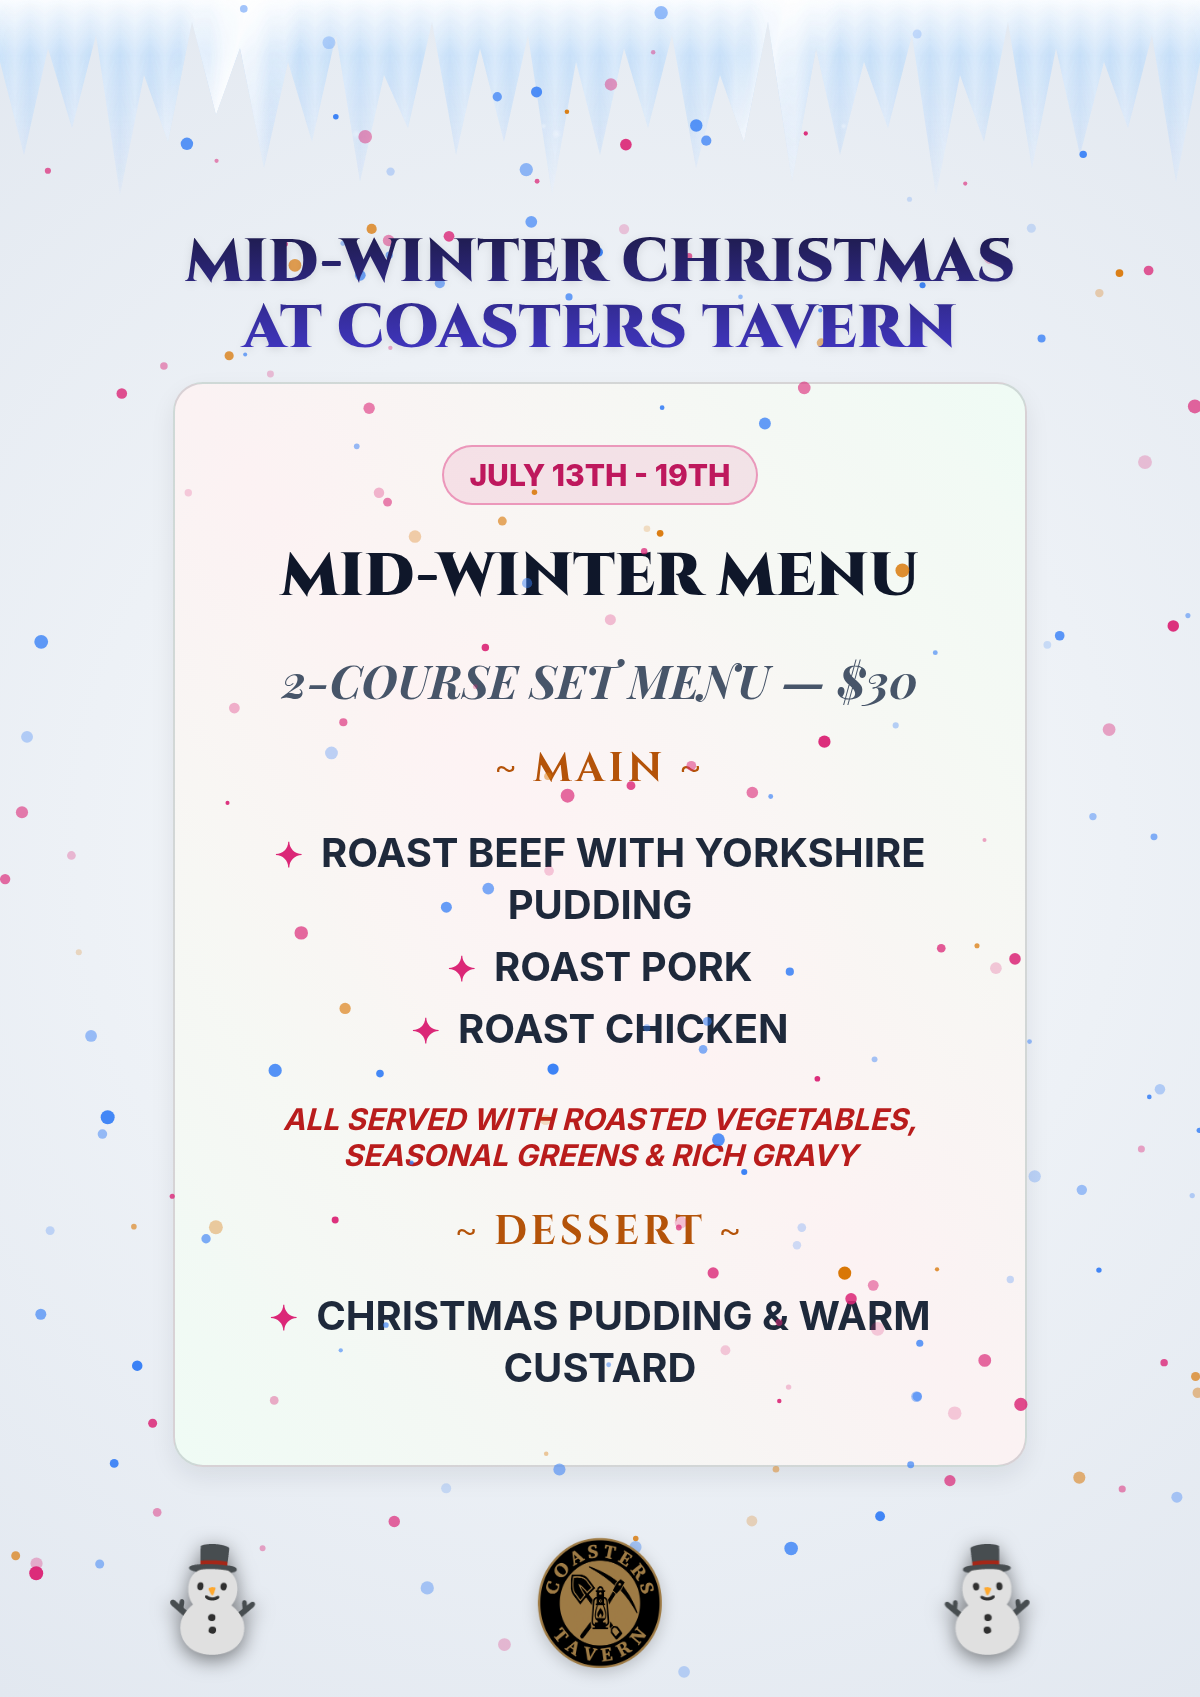
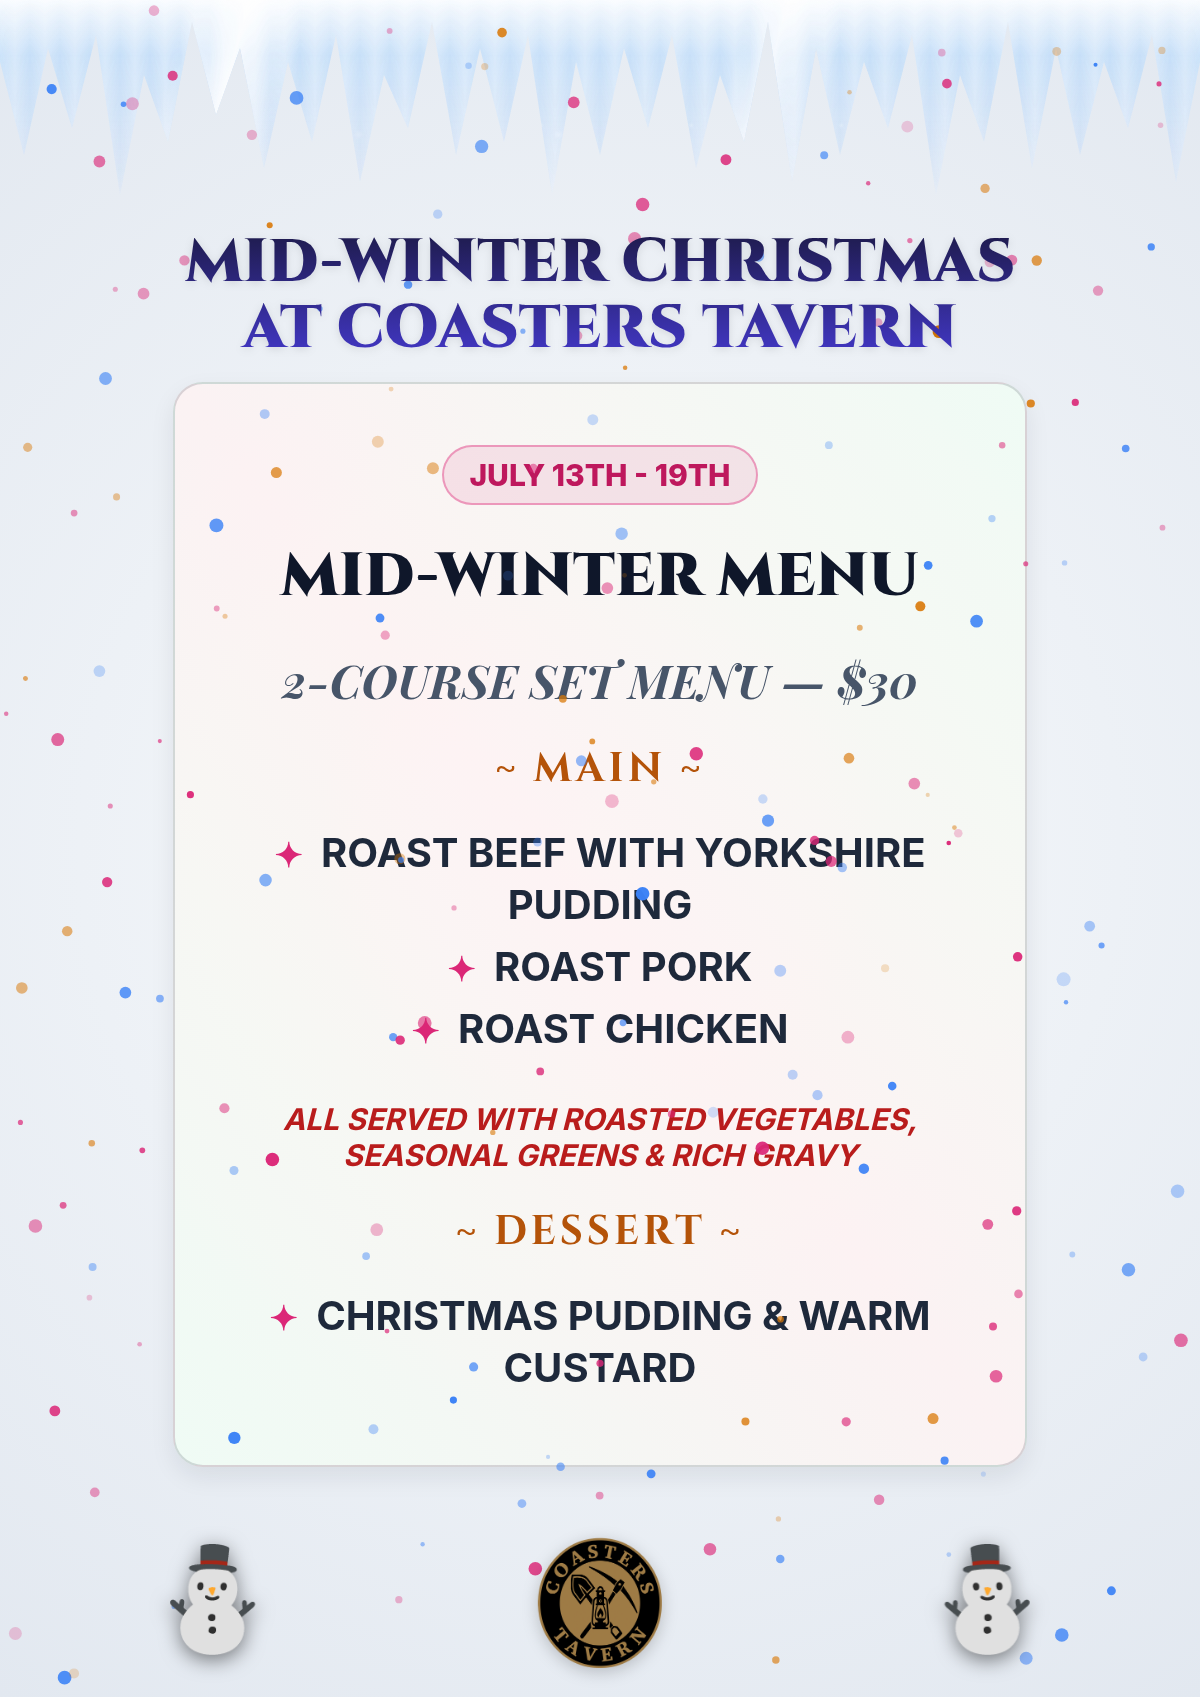
Fix text overspill across all A4 and A3 posters by setting safe font sizes and bottom buffers

diff --git a/poster_all_a3_dark.html b/poster_all_a3_dark.html
@@ -15,7 +15,7 @@
         }
         .poster-content {
             position: absolute; top: 0; left: 0; right: 0; bottom: 0;
-            padding: 60px 40px; box-sizing: border-box; /* A3 Poster: minimal buffers */
+            padding: 60px 40px 210px 40px; box-sizing: border-box; /* A3 Poster: minimal side buffers, reserved bottom logo space */
             display: flex; flex-direction: column; align-items: center; justify-content: flex-start;
         }
         /* Glass/Crystal Icicles */
@@ -64,33 +64,33 @@
             filter: drop-shadow(0 5px 15px rgba(0,0,0,0.8)); 
         }
         .main-heading {
-            font-family: 'Cinzel', serif; font-size: 80px; font-weight: 900; 
+            font-family: 'Cinzel', serif; font-size: 64px; font-weight: 900; 
             background: linear-gradient(to bottom, #ffffff, #fde047, #f472b6); 
             -webkit-background-clip: text; color: transparent; text-align: center; 
-            margin-top: 0px; margin-bottom: 30px; z-index: 40; position: relative; text-transform: uppercase;
+            margin-top: 0px; margin-bottom: 20px; z-index: 40; position: relative; text-transform: uppercase;
             filter: brightness(1.2) drop-shadow(0 0 20px rgba(255, 255, 255, 0.8)) drop-shadow(0 0 30px rgba(59, 130, 246, 1));
         }
         .slide-container { 
             display: flex; flex-direction: column; align-items: center; 
             justify-content: space-evenly; height: 100%; width: 100%; 
-            position: relative; z-index: 20; padding-bottom: 0px; box-sizing: border-box; flex-grow: 1; gap: 24px;
+            position: relative; z-index: 20; padding-bottom: 0px; box-sizing: border-box; flex-grow: 1; gap: 16px;
         }
         .glass-box {
             border-radius: 20px;
-            border: 2px solid rgba(255, 255, 255, 0.2); padding: 24px 34px;
+            border: 2px solid rgba(255, 255, 255, 0.2); padding: 14px 24px;
             box-shadow: 0 10px 25px rgba(0, 0, 0, 0.8), inset 0 0 20px rgba(255,255,255,0.1); 
             text-align: center; width: 100%; box-sizing: border-box;
             display: flex; flex-direction: column; justify-content: space-evenly; align-items: center;
-            flex-grow: 1; gap: 8px;
+            flex-grow: 1; gap: 6px;
         }
-        h1 { font-family: 'Cinzel', serif; font-size: 56px; font-weight: 900; color: #fff; margin: 0; text-shadow: 0 3px 10px rgba(0,0,0,0.5), 0 0 20px rgba(59, 130, 246, 0.8); }
-        h2 { font-family: 'Playfair Display', serif; font-size: 38px; font-weight: bold; font-style: italic; color: #fce7f3; margin: 0; text-shadow: 0 3px 10px rgba(0,0,0,0.5), 0 0 20px rgba(59, 130, 246, 0.8); }
-        .course-title { font-family: 'Cinzel', serif; font-size: 32px; font-weight: bold; color: #fbbf24; margin: 0; letter-spacing: 4px; text-shadow: 0 0 15px rgba(59, 130, 246, 0.8); }
-        .date-badge { display: inline-block; background: rgba(0, 0, 0, 0.3); border: 2px solid rgba(236, 72, 153, 0.6); padding: 10px 24px; font-size: 30px; color: #f9a8d4; border-radius: 50px; margin: 0; box-shadow: 0 3px 10px rgba(0,0,0,0.5); font-weight: 900; }
+        h1 { font-family: 'Cinzel', serif; font-size: 40px; font-weight: 900; color: #fff; margin: 0; text-shadow: 0 3px 10px rgba(0,0,0,0.5), 0 0 20px rgba(59, 130, 246, 0.8); }
+        h2 { font-family: 'Playfair Display', serif; font-size: 26px; font-weight: bold; font-style: italic; color: #fce7f3; margin: 0; text-shadow: 0 3px 10px rgba(0,0,0,0.5), 0 0 20px rgba(59, 130, 246, 0.8); }
+        .course-title { font-family: 'Cinzel', serif; font-size: 20px; font-weight: bold; color: #fbbf24; margin: 0; letter-spacing: 4px; text-shadow: 0 0 15px rgba(59, 130, 246, 0.8); }
+        .date-badge { display: inline-block; background: rgba(0, 0, 0, 0.3); border: 2px solid rgba(236, 72, 153, 0.6); padding: 6px 14px; font-size: 22px; color: #f9a8d4; border-radius: 50px; margin: 0; box-shadow: 0 3px 10px rgba(0,0,0,0.5); font-weight: 900; }
         ul { list-style: none; padding: 0; margin: 0; text-align: center; width: 100%; }
-        li { font-size: 36px; font-weight: bold; margin-bottom: 6px; color: #e0e0e0; text-shadow: 0 2px 8px rgba(0,0,0,0.8); line-height: 1.3;}
-        li::before { content: '✦ '; color: #ec4899; font-size: 30px; margin-right: 12px; }
-        .small-text { font-size: 24px; font-weight: bold; font-style: italic; color: #f9a8d4; margin-top: 4px; text-shadow: 0 2px 8px rgba(0,0,0,0.8); text-align: center; }
+        li { font-size: 22px; font-weight: bold; margin-bottom: 3px; color: #e0e0e0; text-shadow: 0 2px 8px rgba(0,0,0,0.8); line-height: 1.3;}
+        li::before { content: '✦ '; color: #ec4899; font-size: 22px; margin-right: 12px; }
+        .small-text { font-size: 16px; font-weight: bold; font-style: italic; color: #f9a8d4; margin-top: 2px; text-shadow: 0 2px 8px rgba(0,0,0,0.8); text-align: center; }
     </style>
 </head>
 <body>

diff --git a/poster_all_dark.html b/poster_all_dark.html
@@ -64,33 +64,33 @@
             filter: drop-shadow(0 5px 15px rgba(0,0,0,0.8)); 
         }
         .main-heading {
-            font-family: 'Cinzel', serif; font-size: 56px; font-weight: 900; 
+            font-family: 'Cinzel', serif; font-size: 44px; font-weight: 900; 
             background: linear-gradient(to bottom, #ffffff, #fde047, #f472b6); 
             -webkit-background-clip: text; color: transparent; text-align: center; 
-            margin-top: 0px; margin-bottom: 20px; z-index: 40; position: relative; text-transform: uppercase;
+            margin-top: 0px; margin-bottom: 12px; z-index: 40; position: relative; text-transform: uppercase;
             filter: brightness(1.2) drop-shadow(0 0 20px rgba(255, 255, 255, 0.8)) drop-shadow(0 0 30px rgba(59, 130, 246, 1));
         }
         .slide-container { 
             display: flex; flex-direction: column; align-items: center; 
             justify-content: space-evenly; height: 100%; width: 100%; 
-            position: relative; z-index: 20; padding-bottom: 0px; box-sizing: border-box; flex-grow: 1; gap: 14px;
+            position: relative; z-index: 20; padding-bottom: 0px; box-sizing: border-box; flex-grow: 1; gap: 10px;
         }
         .glass-box {
             border-radius: 20px;
-            border: 2px solid rgba(255, 255, 255, 0.2); padding: 16px 26px;
+            border: 2px solid rgba(255, 255, 255, 0.2); padding: 10px 20px;
             box-shadow: 0 10px 25px rgba(0, 0, 0, 0.8), inset 0 0 20px rgba(255,255,255,0.1); 
             text-align: center; width: 100%; box-sizing: border-box;
             display: flex; flex-direction: column; justify-content: space-evenly; align-items: center;
             flex-grow: 1; gap: 4px;
         }
-        h1 { font-family: 'Cinzel', serif; font-size: 40px; font-weight: 900; color: #fff; margin: 0; text-shadow: 0 3px 10px rgba(0,0,0,0.5), 0 0 20px rgba(59, 130, 246, 0.8); }
-        h2 { font-family: 'Playfair Display', serif; font-size: 28px; font-weight: bold; font-style: italic; color: #fce7f3; margin: 0; text-shadow: 0 3px 10px rgba(0,0,0,0.5), 0 0 20px rgba(59, 130, 246, 0.8); }
-        .course-title { font-family: 'Cinzel', serif; font-size: 22px; font-weight: bold; color: #fbbf24; margin: 0; letter-spacing: 3px; text-shadow: 0 0 15px rgba(59, 130, 246, 0.8); }
-        .date-badge { display: inline-block; background: rgba(0, 0, 0, 0.3); border: 2px solid rgba(236, 72, 153, 0.6); padding: 6px 14px; font-size: 22px; color: #f9a8d4; border-radius: 50px; margin: 0; box-shadow: 0 3px 10px rgba(0,0,0,0.5); font-weight: 900; }
+        h1 { font-family: 'Cinzel', serif; font-size: 32px; font-weight: 900; color: #fff; margin: 0; text-shadow: 0 3px 10px rgba(0,0,0,0.5), 0 0 20px rgba(59, 130, 246, 0.8); }
+        h2 { font-family: 'Playfair Display', serif; font-size: 22px; font-weight: bold; font-style: italic; color: #fce7f3; margin: 0; text-shadow: 0 3px 10px rgba(0,0,0,0.5), 0 0 20px rgba(59, 130, 246, 0.8); }
+        .course-title { font-family: 'Cinzel', serif; font-size: 16px; font-weight: bold; color: #fbbf24; margin: 0; letter-spacing: 3px; text-shadow: 0 0 15px rgba(59, 130, 246, 0.8); }
+        .date-badge { display: inline-block; background: rgba(0, 0, 0, 0.3); border: 2px solid rgba(236, 72, 153, 0.6); padding: 4px 10px; font-size: 18px; color: #f9a8d4; border-radius: 50px; margin: 0; box-shadow: 0 3px 10px rgba(0,0,0,0.5); font-weight: 900; }
         ul { list-style: none; padding: 0; margin: 0; text-align: center; width: 100%; }
-        li { font-size: 26px; font-weight: bold; margin-bottom: 4px; color: #e0e0e0; text-shadow: 0 2px 8px rgba(0,0,0,0.8); line-height: 1.3;}
-        li::before { content: '✦ '; color: #ec4899; font-size: 22px; margin-right: 12px; }
-        .small-text { font-size: 18px; font-weight: bold; font-style: italic; color: #f9a8d4; margin-top: 2px; text-shadow: 0 2px 8px rgba(0,0,0,0.8); text-align: center; }
+        li { font-size: 18px; font-weight: bold; margin-bottom: 2px; color: #e0e0e0; text-shadow: 0 2px 8px rgba(0,0,0,0.8); line-height: 1.3;}
+        li::before { content: '✦ '; color: #ec4899; font-size: 18px; margin-right: 12px; }
+        .small-text { font-size: 14px; font-weight: bold; font-style: italic; color: #f9a8d4; margin-top: 2px; text-shadow: 0 2px 8px rgba(0,0,0,0.8); text-align: center; }
     </style>
 </head>
 <body>

diff --git a/poster_all_a3_light.html b/poster_all_a3_light.html
@@ -15,7 +15,7 @@
         }
         .poster-content {
             position: absolute; top: 0; left: 0; right: 0; bottom: 0;
-            padding: 60px 40px; box-sizing: border-box; /* A3 Poster: minimal buffers */
+            padding: 60px 40px 210px 40px; box-sizing: border-box; /* A3 Poster: minimal side buffers, reserved bottom logo space */
             display: flex; flex-direction: column; align-items: center; justify-content: flex-start;
         }
         /* Glass/Crystal Icicles */
@@ -63,33 +63,33 @@
             filter: drop-shadow(0 5px 15px rgba(0,0,0,0.8)); 
         }
         .main-heading {
-            font-family: 'Cinzel', serif; font-size: 80px; font-weight: 900; 
+            font-family: 'Cinzel', serif; font-size: 64px; font-weight: 900; 
             background: linear-gradient(to bottom, #1e1b4b, #4338ca); 
             -webkit-background-clip: text; color: transparent; text-align: center; 
-            margin-top: 0px; margin-bottom: 30px; z-index: 40; position: relative; text-transform: uppercase;
+            margin-top: 0px; margin-bottom: 20px; z-index: 40; position: relative; text-transform: uppercase;
             filter: drop-shadow(0 2px 4px rgba(0,0,0,0.1));
         }
         .slide-container { 
             display: flex; flex-direction: column; align-items: center; 
             justify-content: space-evenly; height: 100%; width: 100%; 
-            position: relative; z-index: 20; padding-bottom: 0px; box-sizing: border-box; flex-grow: 1; gap: 24px;
+            position: relative; z-index: 20; padding-bottom: 0px; box-sizing: border-box; flex-grow: 1; gap: 16px;
         }
         .glass-box {
             border-radius: 20px;
-            border: 2px solid rgba(15, 23, 42, 0.15); padding: 24px 34px;
+            border: 2px solid rgba(15, 23, 42, 0.15); padding: 14px 24px;
             box-shadow: 0 10px 25px rgba(15, 23, 42, 0.08); 
             text-align: center; width: 100%; box-sizing: border-box;
             display: flex; flex-direction: column; justify-content: space-evenly; align-items: center;
-            flex-grow: 1; gap: 8px;
+            flex-grow: 1; gap: 6px;
         }
-        h1 { font-family: 'Cinzel', serif; font-size: 56px; font-weight: 900; color: #0f172a; margin: 0; }
-        h2 { font-family: 'Playfair Display', serif; font-size: 38px; font-weight: bold; font-style: italic; color: #475569; margin: 0; }
-        .course-title { font-family: 'Cinzel', serif; font-size: 32px; font-weight: bold; color: #b45309; margin: 0; letter-spacing: 4px; }
-        .date-badge { display: inline-block; background: rgba(219, 39, 119, 0.1); border: 2px solid rgba(219, 39, 119, 0.4); padding: 10px 24px; font-size: 30px; color: #be185d; border-radius: 50px; margin: 0; font-weight: 900; }
+        h1 { font-family: 'Cinzel', serif; font-size: 40px; font-weight: 900; color: #0f172a; margin: 0; }
+        h2 { font-family: 'Playfair Display', serif; font-size: 26px; font-weight: bold; font-style: italic; color: #475569; margin: 0; }
+        .course-title { font-family: 'Cinzel', serif; font-size: 20px; font-weight: bold; color: #b45309; margin: 0; letter-spacing: 4px; }
+        .date-badge { display: inline-block; background: rgba(219, 39, 119, 0.1); border: 2px solid rgba(219, 39, 119, 0.4); padding: 6px 14px; font-size: 22px; color: #be185d; border-radius: 50px; margin: 0; font-weight: 900; }
         ul { list-style: none; padding: 0; margin: 0; text-align: center; width: 100%; }
-        li { font-size: 36px; font-weight: bold; margin-bottom: 6px; color: #1e293b; line-height: 1.3;}
-        li::before { content: '✦ '; color: #db2777; font-size: 30px; margin-right: 12px; }
-        .small-text { font-size: 24px; font-weight: bold; font-style: italic; color: #b91c1c; margin-top: 4px; text-align: center; }
+        li { font-size: 22px; font-weight: bold; margin-bottom: 3px; color: #1e293b; line-height: 1.3;}
+        li::before { content: '✦ '; color: #db2777; font-size: 22px; margin-right: 12px; }
+        .small-text { font-size: 16px; font-weight: bold; font-style: italic; color: #b91c1c; margin-top: 2px; text-align: center; }
     </style>
 </head>
 <body>

diff --git a/poster_all.html b/poster_all.html
@@ -63,33 +63,33 @@
             filter: drop-shadow(0 5px 15px rgba(0,0,0,0.8)); 
         }
         .main-heading {
-            font-family: 'Cinzel', serif; font-size: 56px; font-weight: 900; 
+            font-family: 'Cinzel', serif; font-size: 44px; font-weight: 900; 
             background: linear-gradient(to bottom, #1e1b4b, #4338ca); 
             -webkit-background-clip: text; color: transparent; text-align: center; 
-            margin-top: 0px; margin-bottom: 20px; z-index: 40; position: relative; text-transform: uppercase;
+            margin-top: 0px; margin-bottom: 12px; z-index: 40; position: relative; text-transform: uppercase;
             filter: drop-shadow(0 2px 4px rgba(0,0,0,0.1));
         }
         .slide-container { 
             display: flex; flex-direction: column; align-items: center; 
             justify-content: space-evenly; height: 100%; width: 100%; 
-            position: relative; z-index: 20; padding-bottom: 0px; box-sizing: border-box; flex-grow: 1; gap: 14px;
+            position: relative; z-index: 20; padding-bottom: 0px; box-sizing: border-box; flex-grow: 1; gap: 10px;
         }
         .glass-box {
             border-radius: 20px;
-            border: 2px solid rgba(15, 23, 42, 0.15); padding: 16px 26px;
+            border: 2px solid rgba(15, 23, 42, 0.15); padding: 10px 20px;
             box-shadow: 0 10px 25px rgba(15, 23, 42, 0.08); 
             text-align: center; width: 100%; box-sizing: border-box;
             display: flex; flex-direction: column; justify-content: space-evenly; align-items: center;
             flex-grow: 1; gap: 4px;
         }
-        h1 { font-family: 'Cinzel', serif; font-size: 40px; font-weight: 900; color: #0f172a; margin: 0; }
-        h2 { font-family: 'Playfair Display', serif; font-size: 28px; font-weight: bold; font-style: italic; color: #475569; margin: 0; }
-        .course-title { font-family: 'Cinzel', serif; font-size: 22px; font-weight: bold; color: #b45309; margin: 0; letter-spacing: 3px; }
-        .date-badge { display: inline-block; background: rgba(219, 39, 119, 0.1); border: 2px solid rgba(219, 39, 119, 0.4); padding: 6px 14px; font-size: 22px; color: #be185d; border-radius: 50px; margin: 0; font-weight: 900; }
+        h1 { font-family: 'Cinzel', serif; font-size: 32px; font-weight: 900; color: #0f172a; margin: 0; }
+        h2 { font-family: 'Playfair Display', serif; font-size: 22px; font-weight: bold; font-style: italic; color: #475569; margin: 0; }
+        .course-title { font-family: 'Cinzel', serif; font-size: 16px; font-weight: bold; color: #b45309; margin: 0; letter-spacing: 3px; }
+        .date-badge { display: inline-block; background: rgba(219, 39, 119, 0.1); border: 2px solid rgba(219, 39, 119, 0.4); padding: 4px 10px; font-size: 18px; color: #be185d; border-radius: 50px; margin: 0; font-weight: 900; }
         ul { list-style: none; padding: 0; margin: 0; text-align: center; width: 100%; }
-        li { font-size: 26px; font-weight: bold; margin-bottom: 4px; color: #1e293b; line-height: 1.3;}
-        li::before { content: '✦ '; color: #db2777; font-size: 22px; margin-right: 12px; }
-        .small-text { font-size: 18px; font-weight: bold; font-style: italic; color: #b91c1c; margin-top: 2px; text-align: center; }
+        li { font-size: 18px; font-weight: bold; margin-bottom: 2px; color: #1e293b; line-height: 1.3;}
+        li::before { content: '✦ '; color: #db2777; font-size: 18px; margin-right: 12px; }
+        .small-text { font-size: 14px; font-weight: bold; font-style: italic; color: #b91c1c; margin-top: 2px; text-align: center; }
     </style>
 </head>
 <body>
